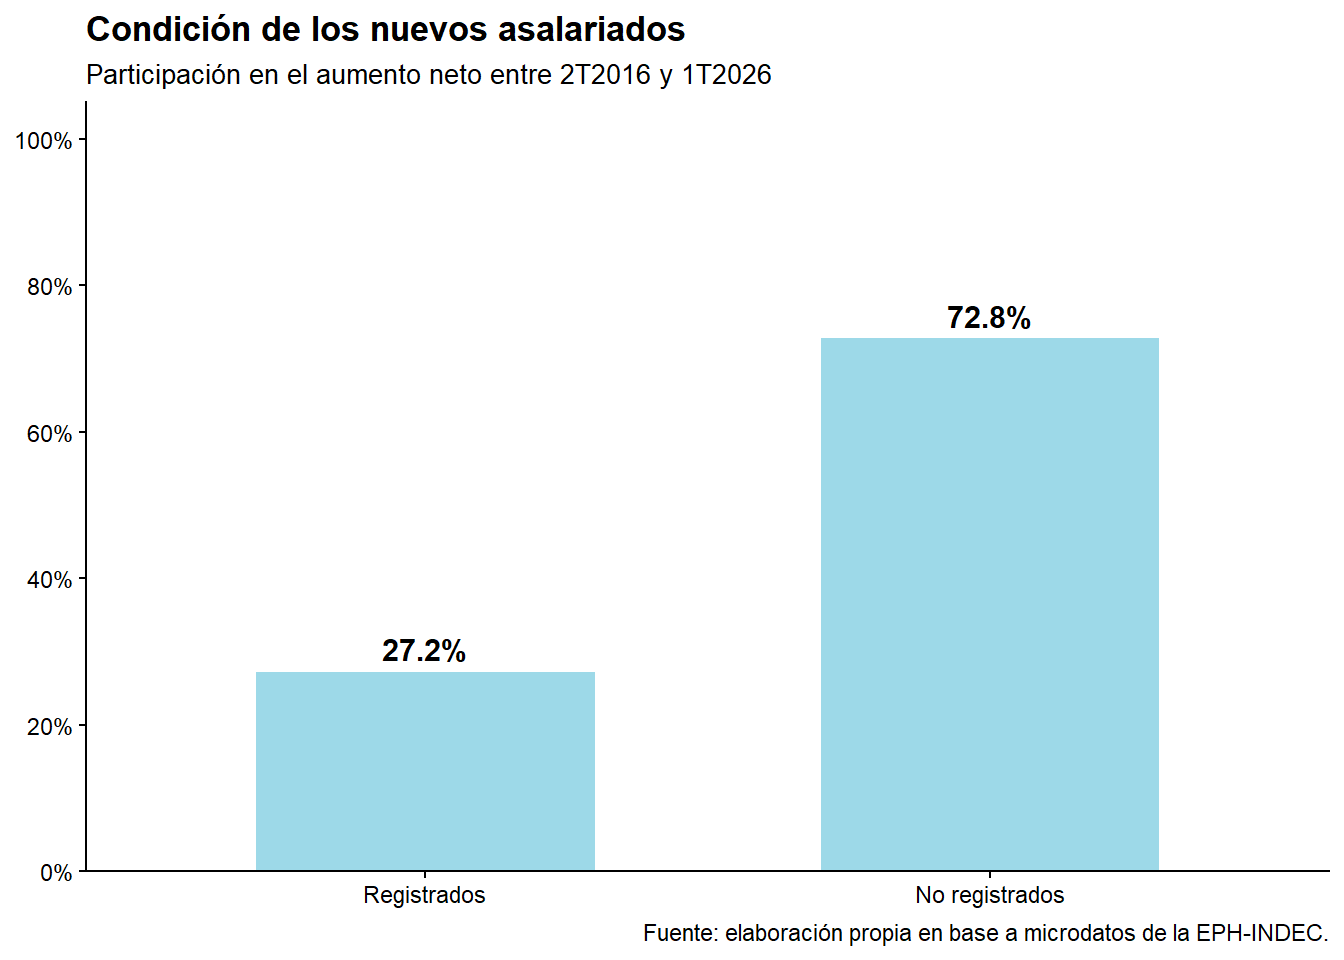
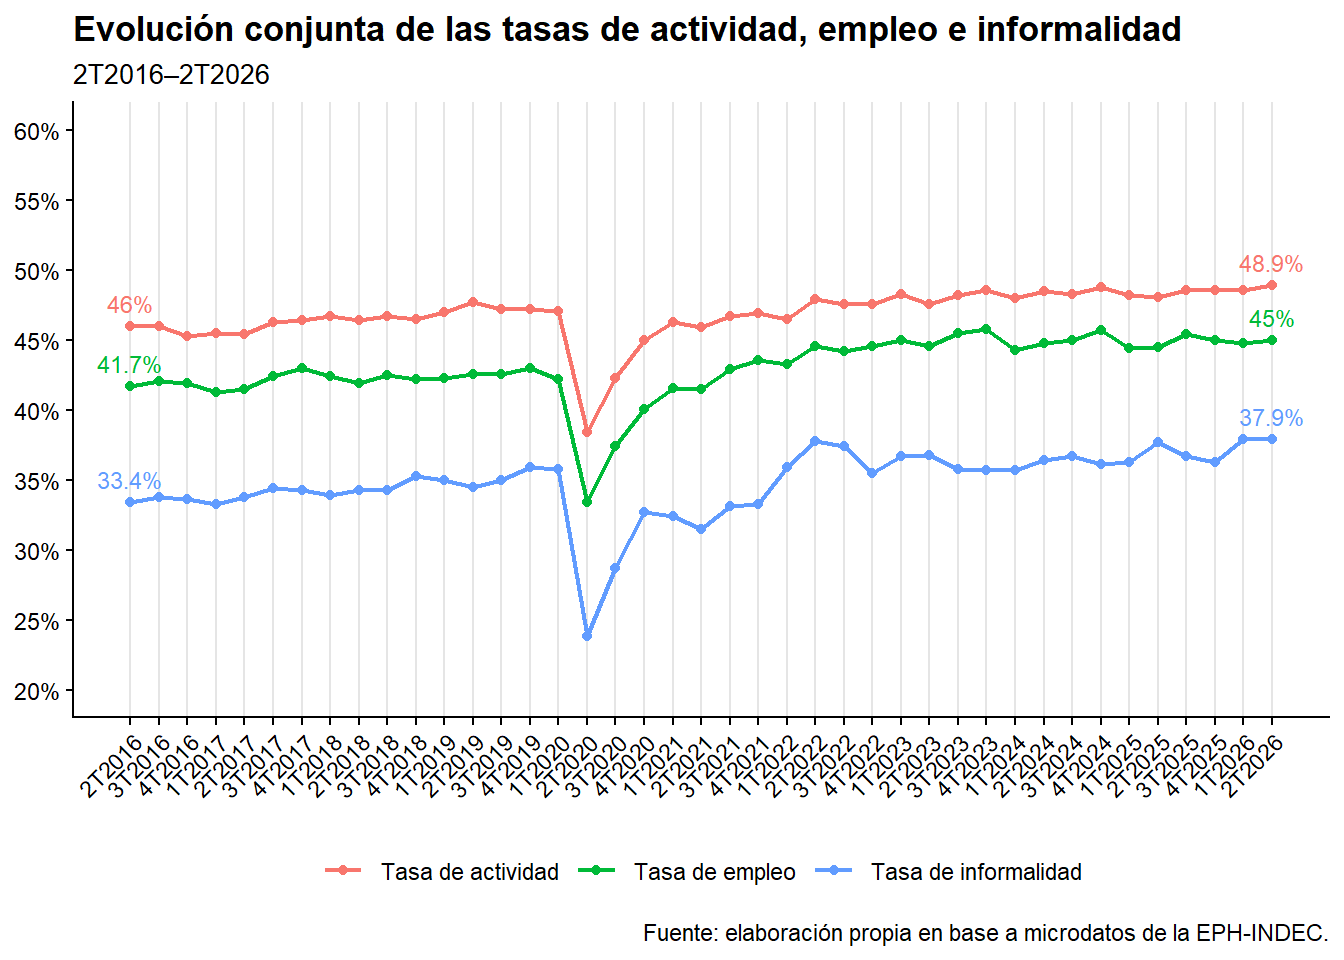
Actualizacion

diff --git a/Bruno Restelli/Trabajo_Final_Bruno_Restelli.html b/Bruno Restelli/Trabajo_Final_Bruno_Restelli.html
@@ -238,11 +238,11 @@ p {
 </section>
 <section id="referencias" class="level1" data-number="7">
 <h1 data-number="7"><span class="header-section-number">7</span> Referencias</h1>
-<p>Instituto Nacional de Estadística y Censos. (2025). Encuesta Permanente de Hogares: Diseño conceptual y metodológico para la medición de la informalidad laboral con datos de la EPH (Metodología INDEC N° 43). https://www.indec.gob.ar/ftp/cuadros/sociedad/metodologia_informalidad_laboral.pdf</p>
-<p>Fernández-Franco, S., Graña, J.M., Lastra, F., &amp; Weksler, G. (2022). Calidad del empleo y estructura del mercado de trabajo en América Latina desde una perspectiva comparada. Ensayos de Economía, 32(61), 124-151. https://doi.org/10.15446/ede.v32n61.100343</p>
+<p>Instituto Nacional de Estadística y Censos. (2025). <em>Encuesta Permanente de Hogares: Diseño conceptual y metodológico para la medición de la informalidad laboral con datos de la EPH</em> (Metodología INDEC N° 43). https://www.indec.gob.ar/ftp/cuadros/sociedad/metodologia_informalidad_laboral.pdf</p>
+<p>Fernández-Franco, S., Graña, J.M., Lastra, F., &amp; Weksler, G. (2022). <em>Calidad del empleo y estructura del mercado de trabajo en América Latina desde una perspectiva comparada.</em> Ensayos de Economía, 32(61), 124-151. https://doi.org/10.15446/ede.v32n61.100343</p>
 <p>Instituto Nacional de Estadística y Censos (INDEC). (2026). Encuesta Permanente de Hogares (EPH): microdatos y documentos, 2016–2026. Buenos Aires: INDEC.&nbsp;</p>
-<p>Instituto Nacional de Estadística y Censos (INDEC). (2026). Mercado de trabajo. Tasas e indicadores socioeconómicos. Segundo trimestre de 2026. Buenos Aires: INDEC.&nbsp;</p>
-<p>Di Grande, L. (2026, 13 de julio). Aumentó 900% la cantidad de repartidores de plataforma en los últimos 6 años. Infobae.</p>
+<p>Instituto Nacional de Estadística y Censos (INDEC). (2026). <em>Mercado de trabajo. Tasas e indicadores socioeconómicos</em>. Segundo trimestre de 2026. Buenos Aires: INDEC.&nbsp;</p>
+<p>Di Grande, L. (2026, 13 de julio). <em>Aumentó 900% la cantidad de repartidores de plataforma en los últimos 6 años</em>. Infobae.</p>
 </section>
 
 </main>
